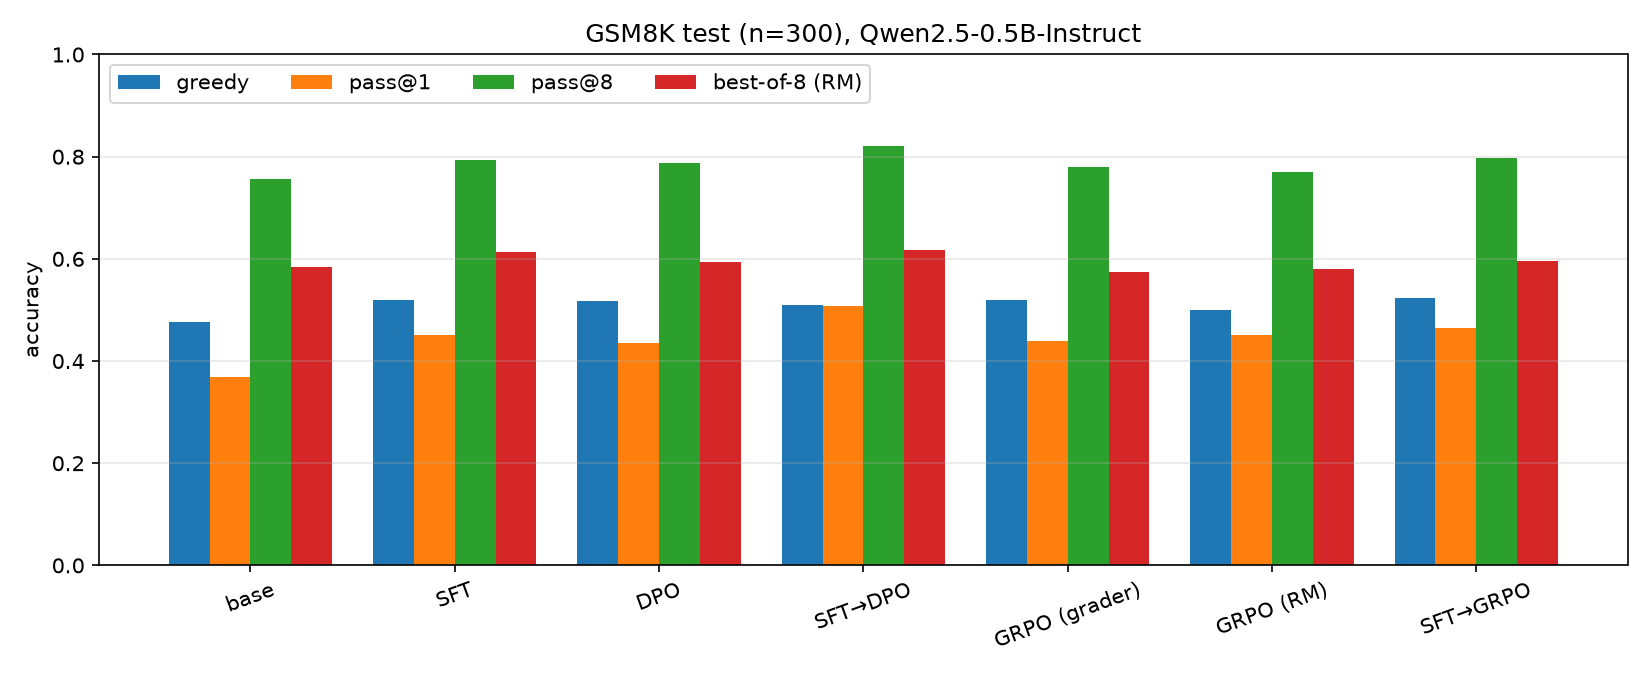
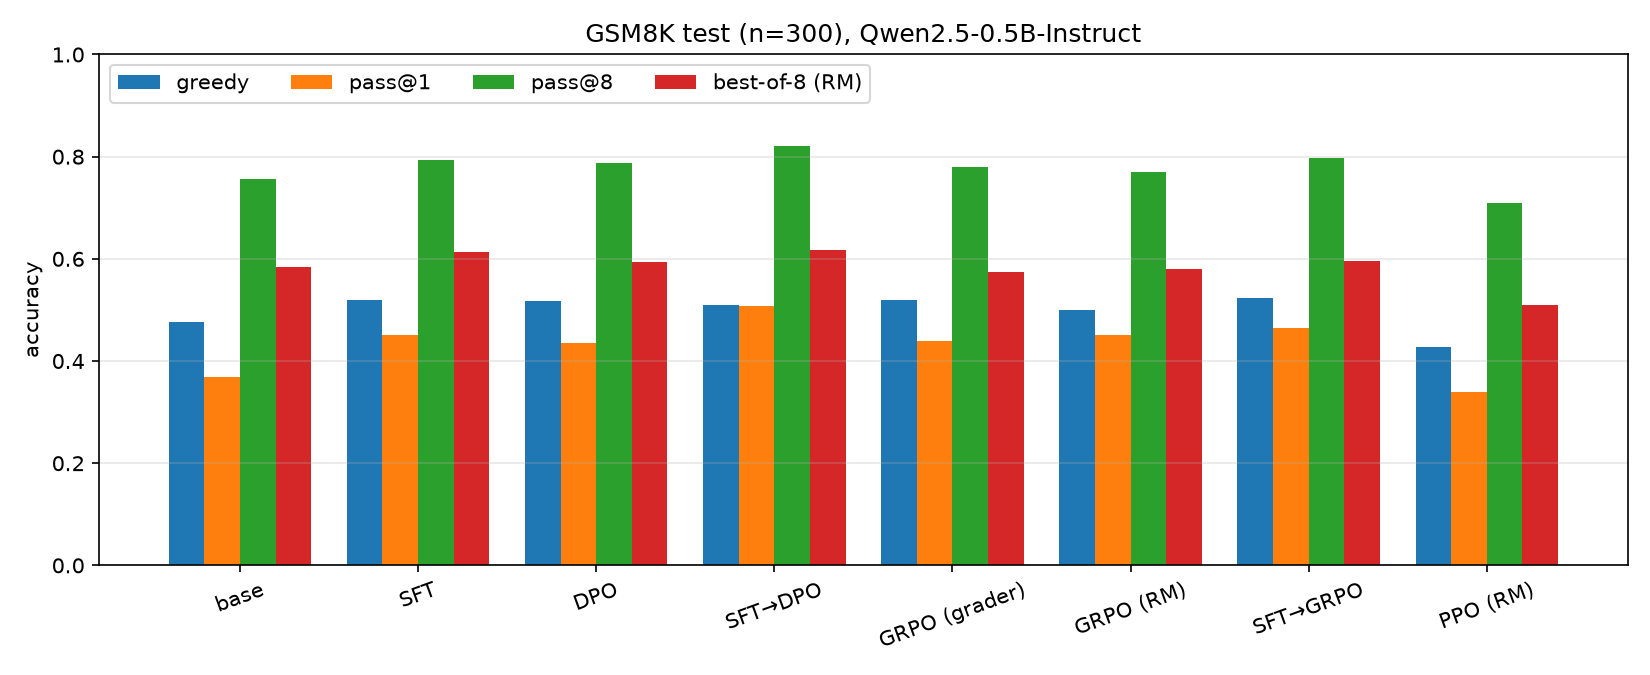
Results: PPO test row (re-run after the GPU-fault abort)

diff --git a/README.md b/README.md
@@ -121,7 +121,7 @@ grader-reward GRPO started from SFT; PPO (RM) with `rm_trunc2`.
 | GRPO (grader) | 0.520 | +0.043 [-0.010, +0.097] | 0.439 | +0.071 [+0.049, +0.094] | 0.780 | 0.573 |
 | GRPO (RM) | 0.500 | +0.023 [-0.030, +0.077] | 0.450 | +0.083 [+0.057, +0.108] | 0.770 | 0.580 |
 | SFT→GRPO | 0.523 | +0.047 [-0.010, +0.103] | 0.465 | +0.098 [+0.072, +0.122] | 0.797 | 0.597 |
-| PPO (RM) | not evaluated: the test run was aborted by a Metal GPU fault | | | | | |
+| PPO (RM) | 0.427 | -0.050 [-0.110, +0.007] | 0.339 | -0.029 [-0.053, -0.005] | 0.710 | 0.510 |
 
 ![methods, test](results/plots/methods_test.png)
 
@@ -145,7 +145,8 @@ grader-reward GRPO started from SFT; PPO (RM) with `rm_trunc2`.
   truncated-answer pairs, EOS penalty 1) drifted to KL ≈ 21 and greedy accuracy
   0.137: the reward model scored unfinished answers above finished ones and PPO
   learned to stop emitting EOS. With `rm_trunc2` the KL stayed near 3.5 and the
-  policy stayed near the base model (greedy 0.567, pass@1 0.435 on dev).
+  policy stayed near the base model on dev (greedy 0.567, pass@1 0.435) and
+  fell slightly below it on test (pass@1 -0.029 [-0.053, -0.005]).
 
 ![PPO KL](results/plots/ppo_kl.png)
 

diff --git a/results/summary_test.md b/results/summary_test.md
@@ -7,4 +7,4 @@
 | GRPO (grader) | 0.520 | +0.043 [-0.010, +0.097] | 0.439 | +0.071 [+0.049, +0.094] | 0.780 | 0.573 |
 | GRPO (RM) | 0.500 | +0.023 [-0.030, +0.077] | 0.450 | +0.083 [+0.057, +0.108] | 0.770 | 0.580 |
 | SFT→GRPO | 0.523 | +0.047 [-0.010, +0.103] | 0.465 | +0.098 [+0.072, +0.122] | 0.797 | 0.597 |
-| PPO (RM) | not evaluated on test | | | | | |
+| PPO (RM) | 0.427 | -0.050 [-0.110, +0.007] | 0.339 | -0.029 [-0.053, -0.005] | 0.710 | 0.510 |
